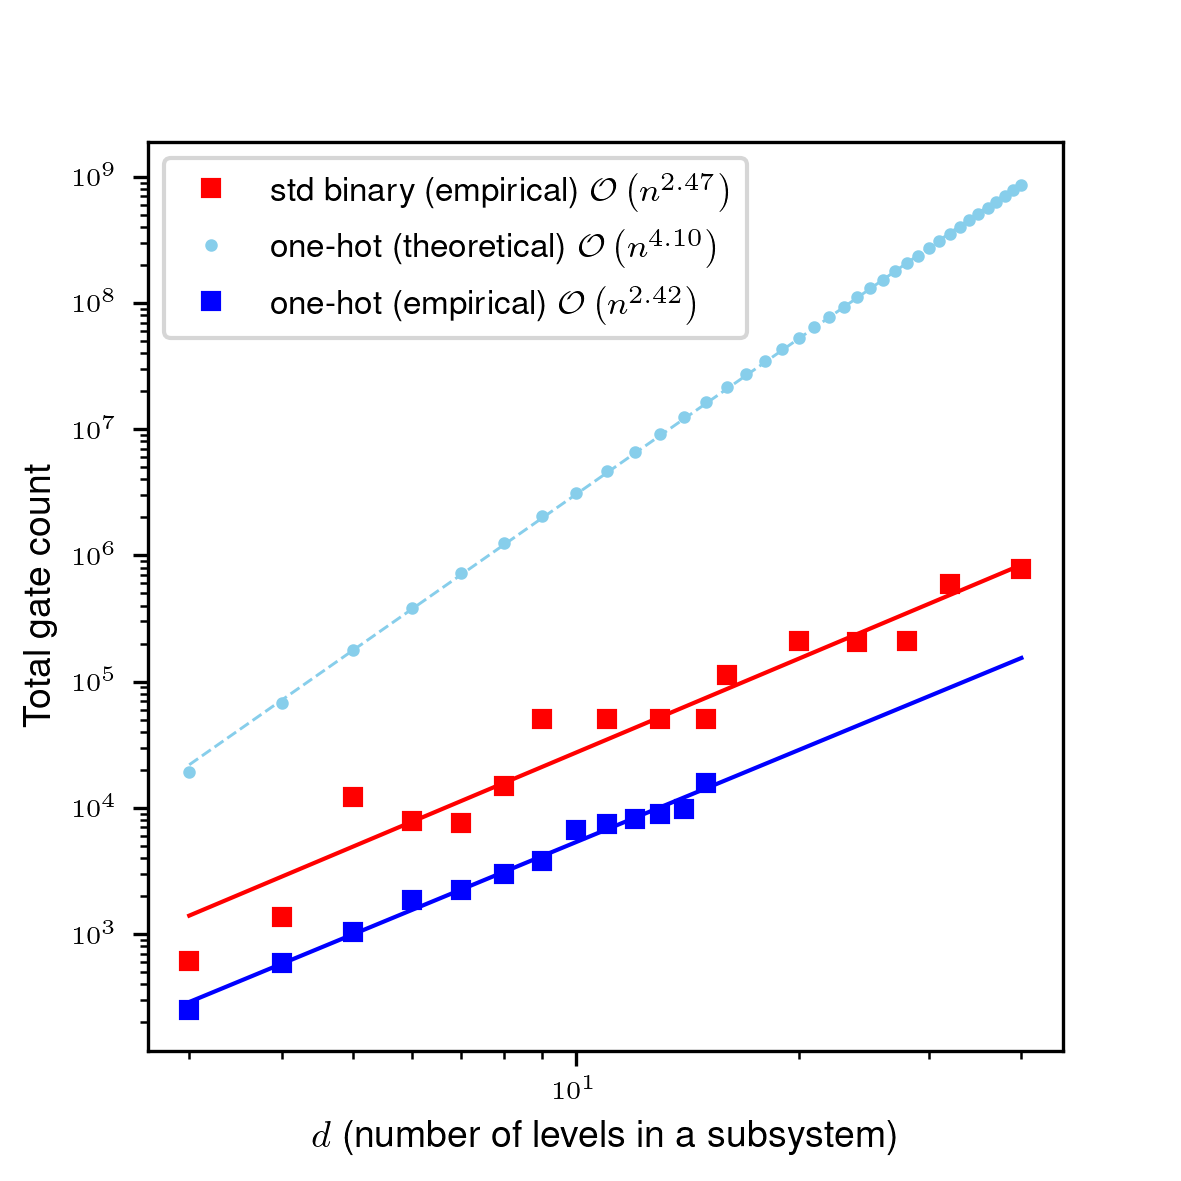
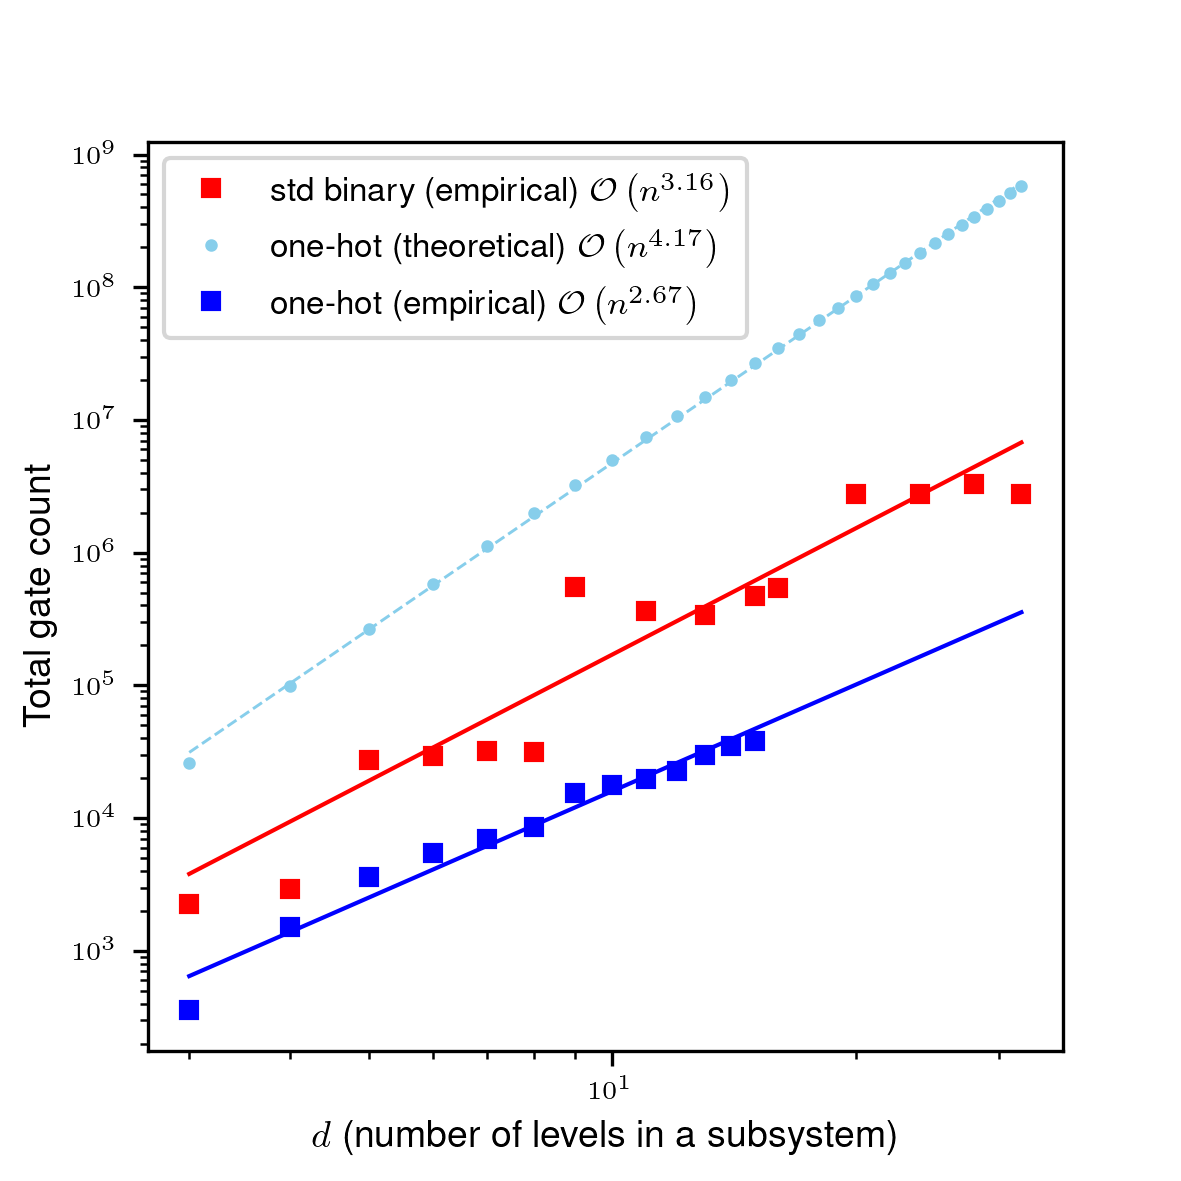
replace resource estimation for real space using changed potential function

diff --git a/resource_estimation_real_space.py b/resource_estimation_real_space.py
@@ -233,10 +233,10 @@ if __name__ == "__main__":
     print(f"Error tolerance: {error_tol : 0.2f}.")
     print(f"Method: {trotter_method}")
 
-    a, b = 1, -1/2
+    a, b = 2, -1/2
     T = 5
 
-    N_vals_binary = np.arange(3, 41)
+    N_vals_binary = np.arange(3, 33)
     binary_trotter_steps = np.zeros(len(N_vals_binary))
     binary_one_qubit_gate_count_per_trotter_step = np.zeros(len(N_vals_binary))
     binary_two_qubit_gate_count_per_trotter_step = np.zeros(len(N_vals_binary))
@@ -254,7 +254,7 @@ if __name__ == "__main__":
     one_hot_one_qubit_gate_count_per_trotter_step = np.zeros(len(N_vals_one_hot))
     one_hot_two_qubit_gate_count_per_trotter_step = np.zeros(len(N_vals_one_hot))
 
-    N_vals_one_hot_bound = np.arange(3, 41)
+    N_vals_one_hot_bound = np.arange(3, 33)
     one_hot_trotter_steps_bound = np.zeros(len(N_vals_one_hot_bound), dtype=int)
     one_hot_one_qubit_gate_count_per_trotter_step_bound = np.zeros(len(N_vals_one_hot_bound), dtype=int)
     one_hot_two_qubit_gate_count_per_trotter_step_bound = np.zeros(len(N_vals_one_hot_bound), dtype=int)
